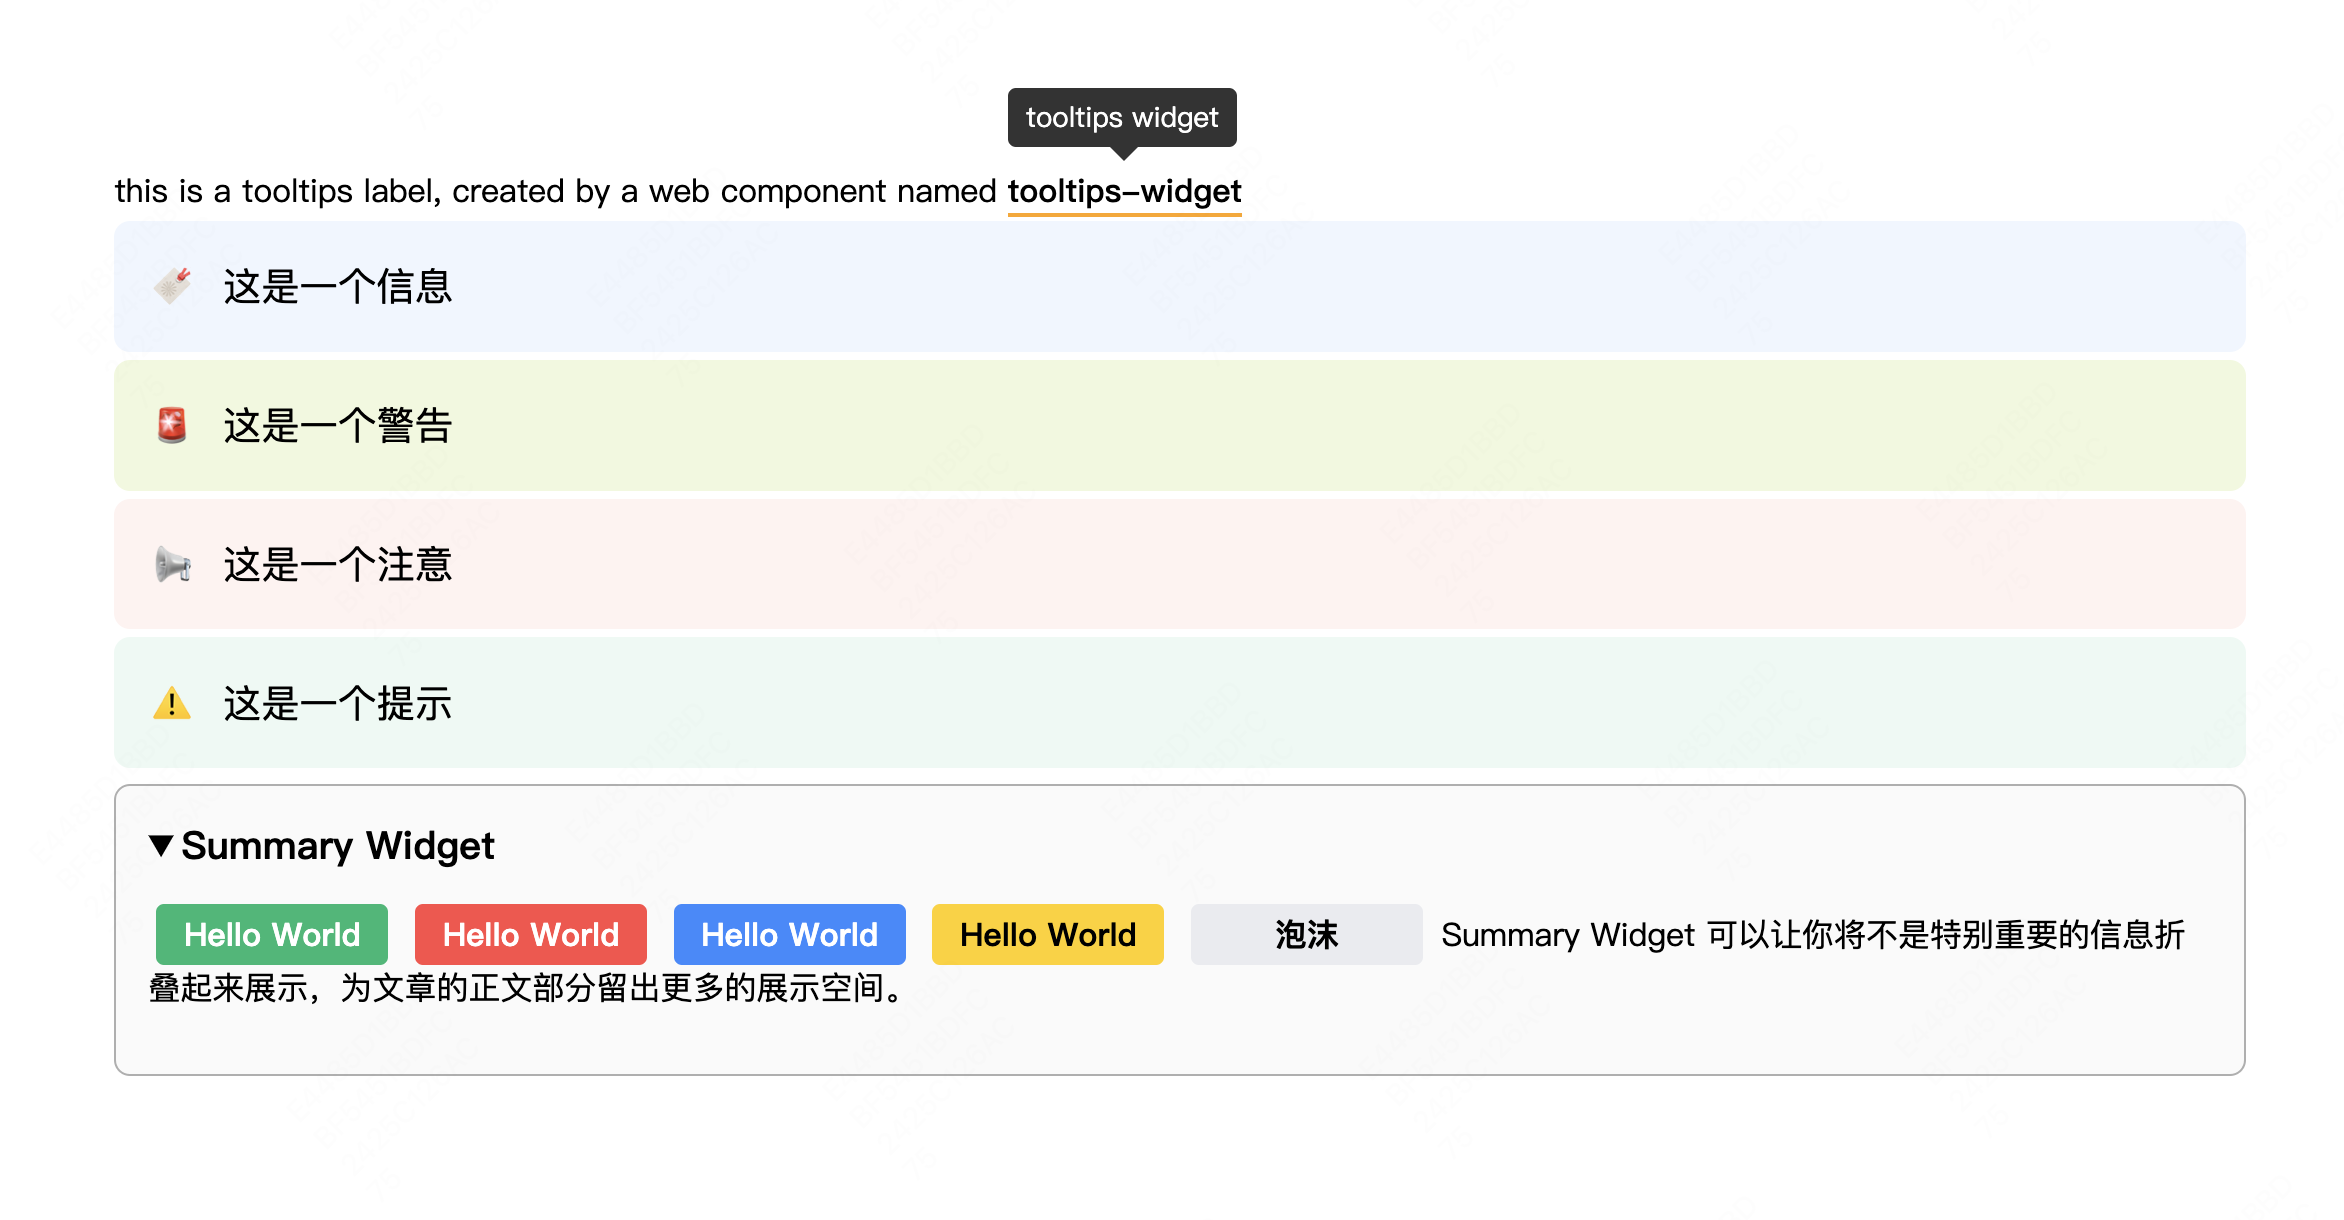
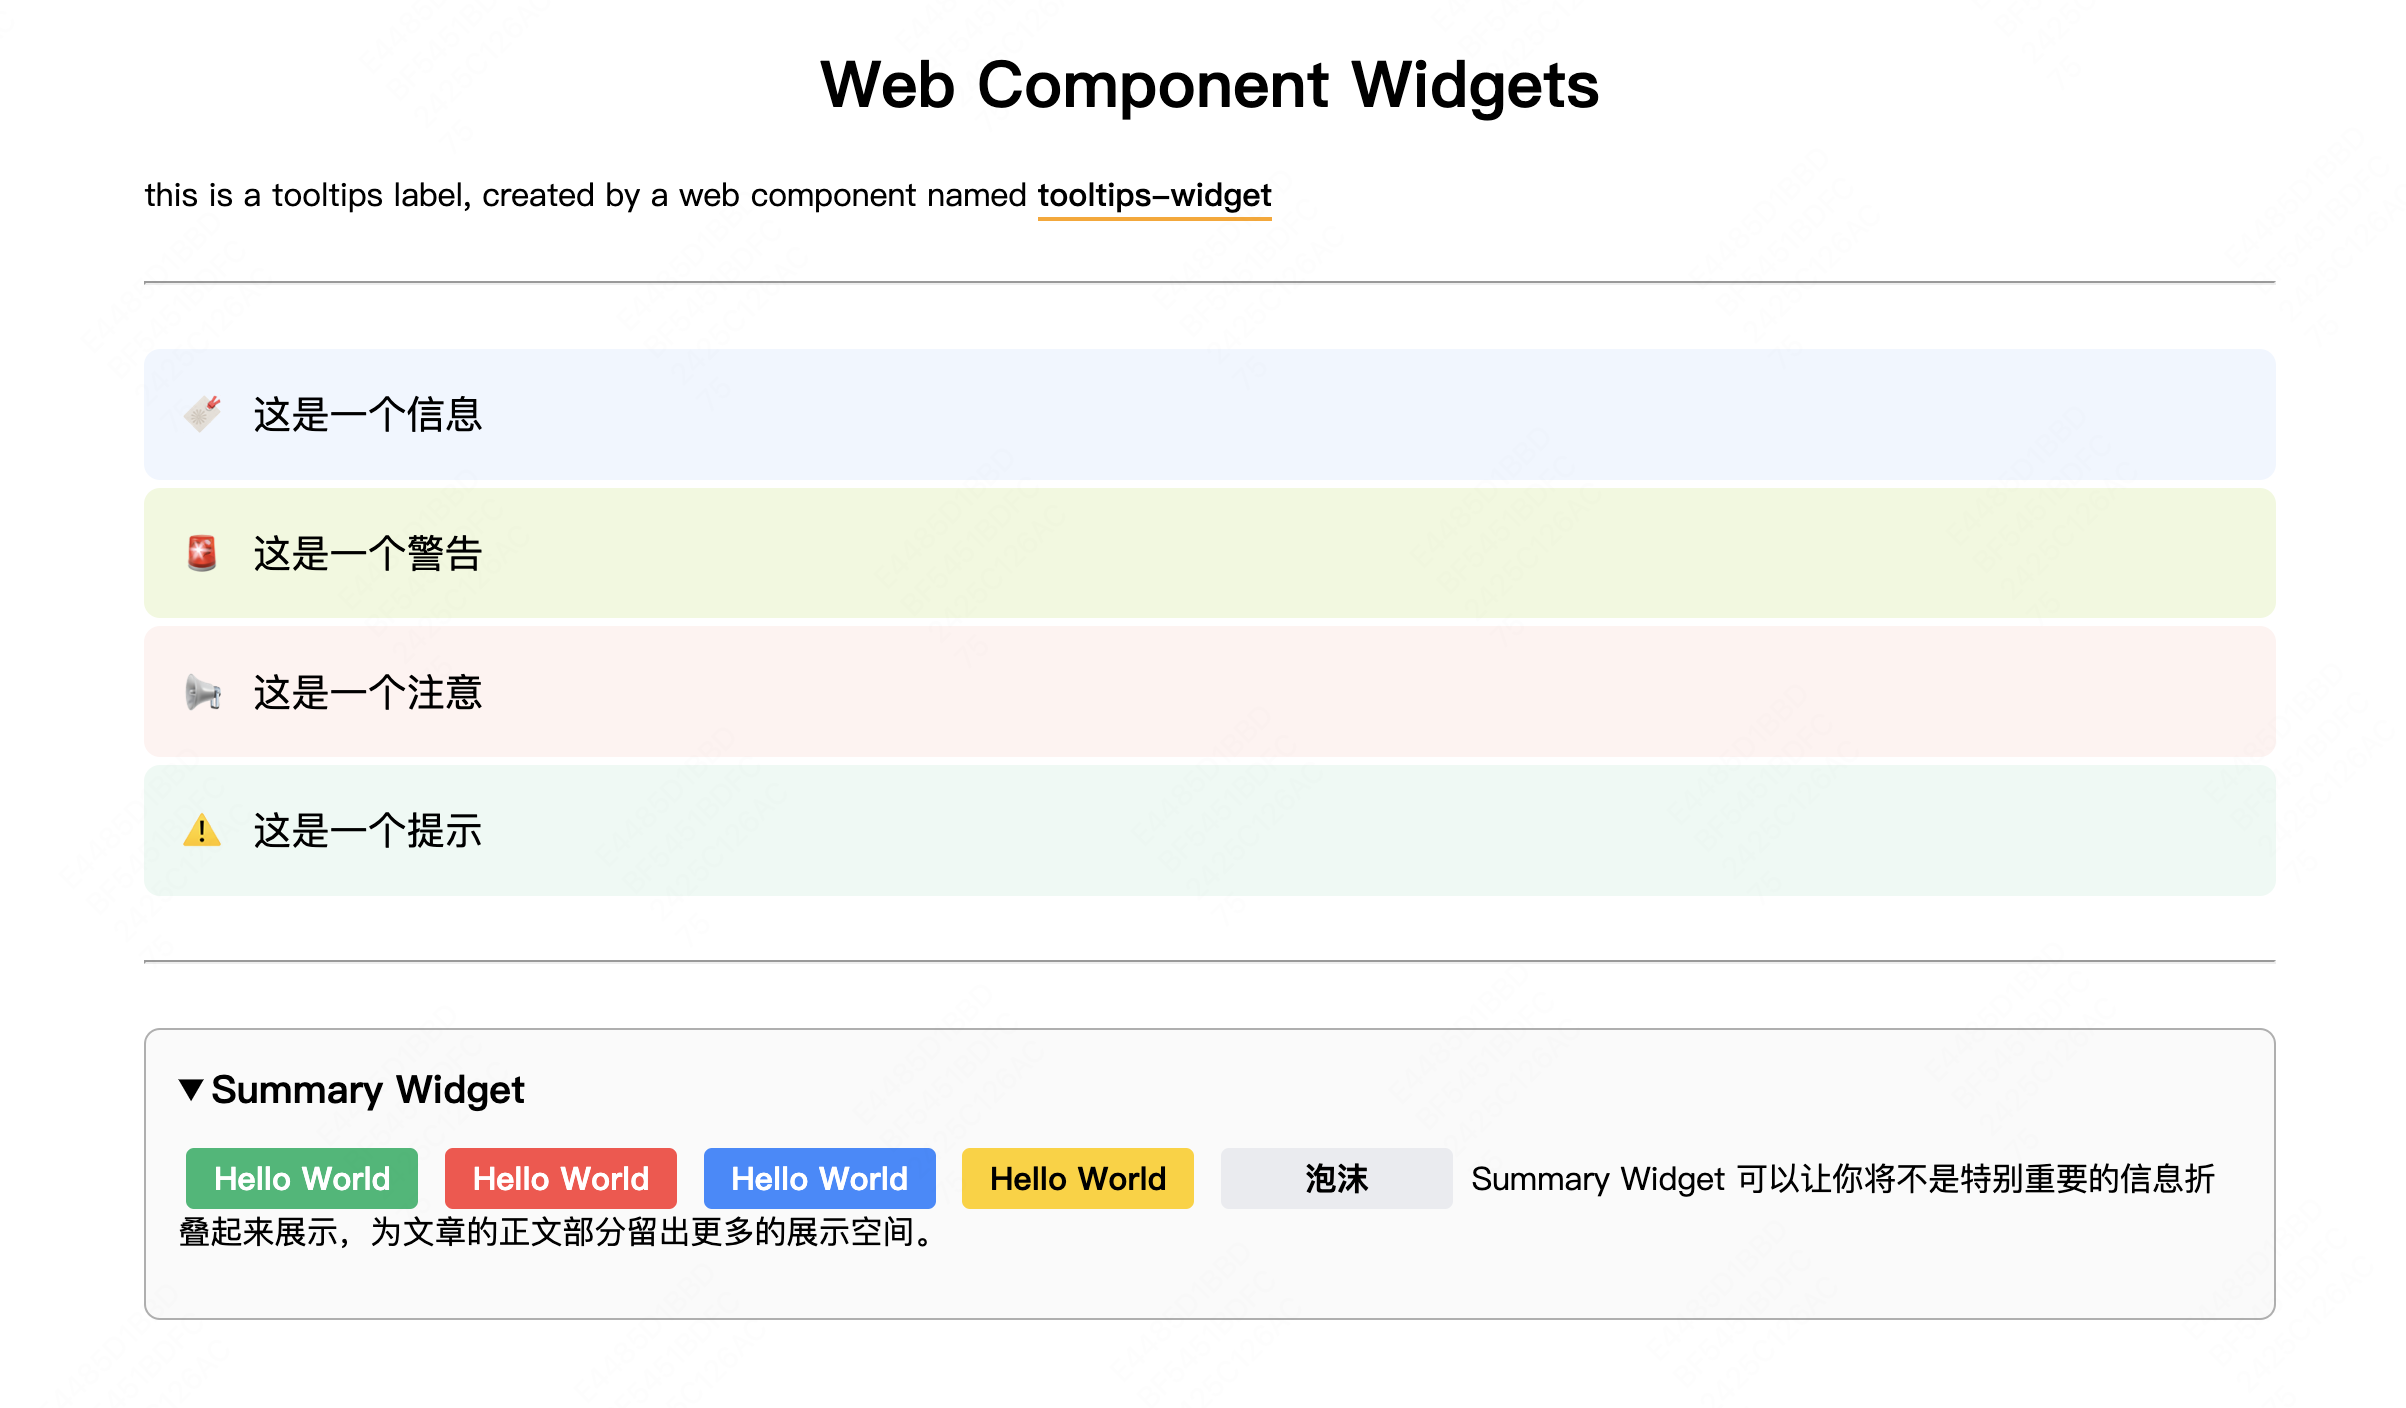
modify readme

diff --git a/README.md b/README.md
@@ -1,3 +1,3 @@
 # Web Component Widgets
 
-<iframe style="border:none;outline:none;" src="https://githubjike.github.io/web-components-widgets/"></iframe>
+![alt text](image.png)
